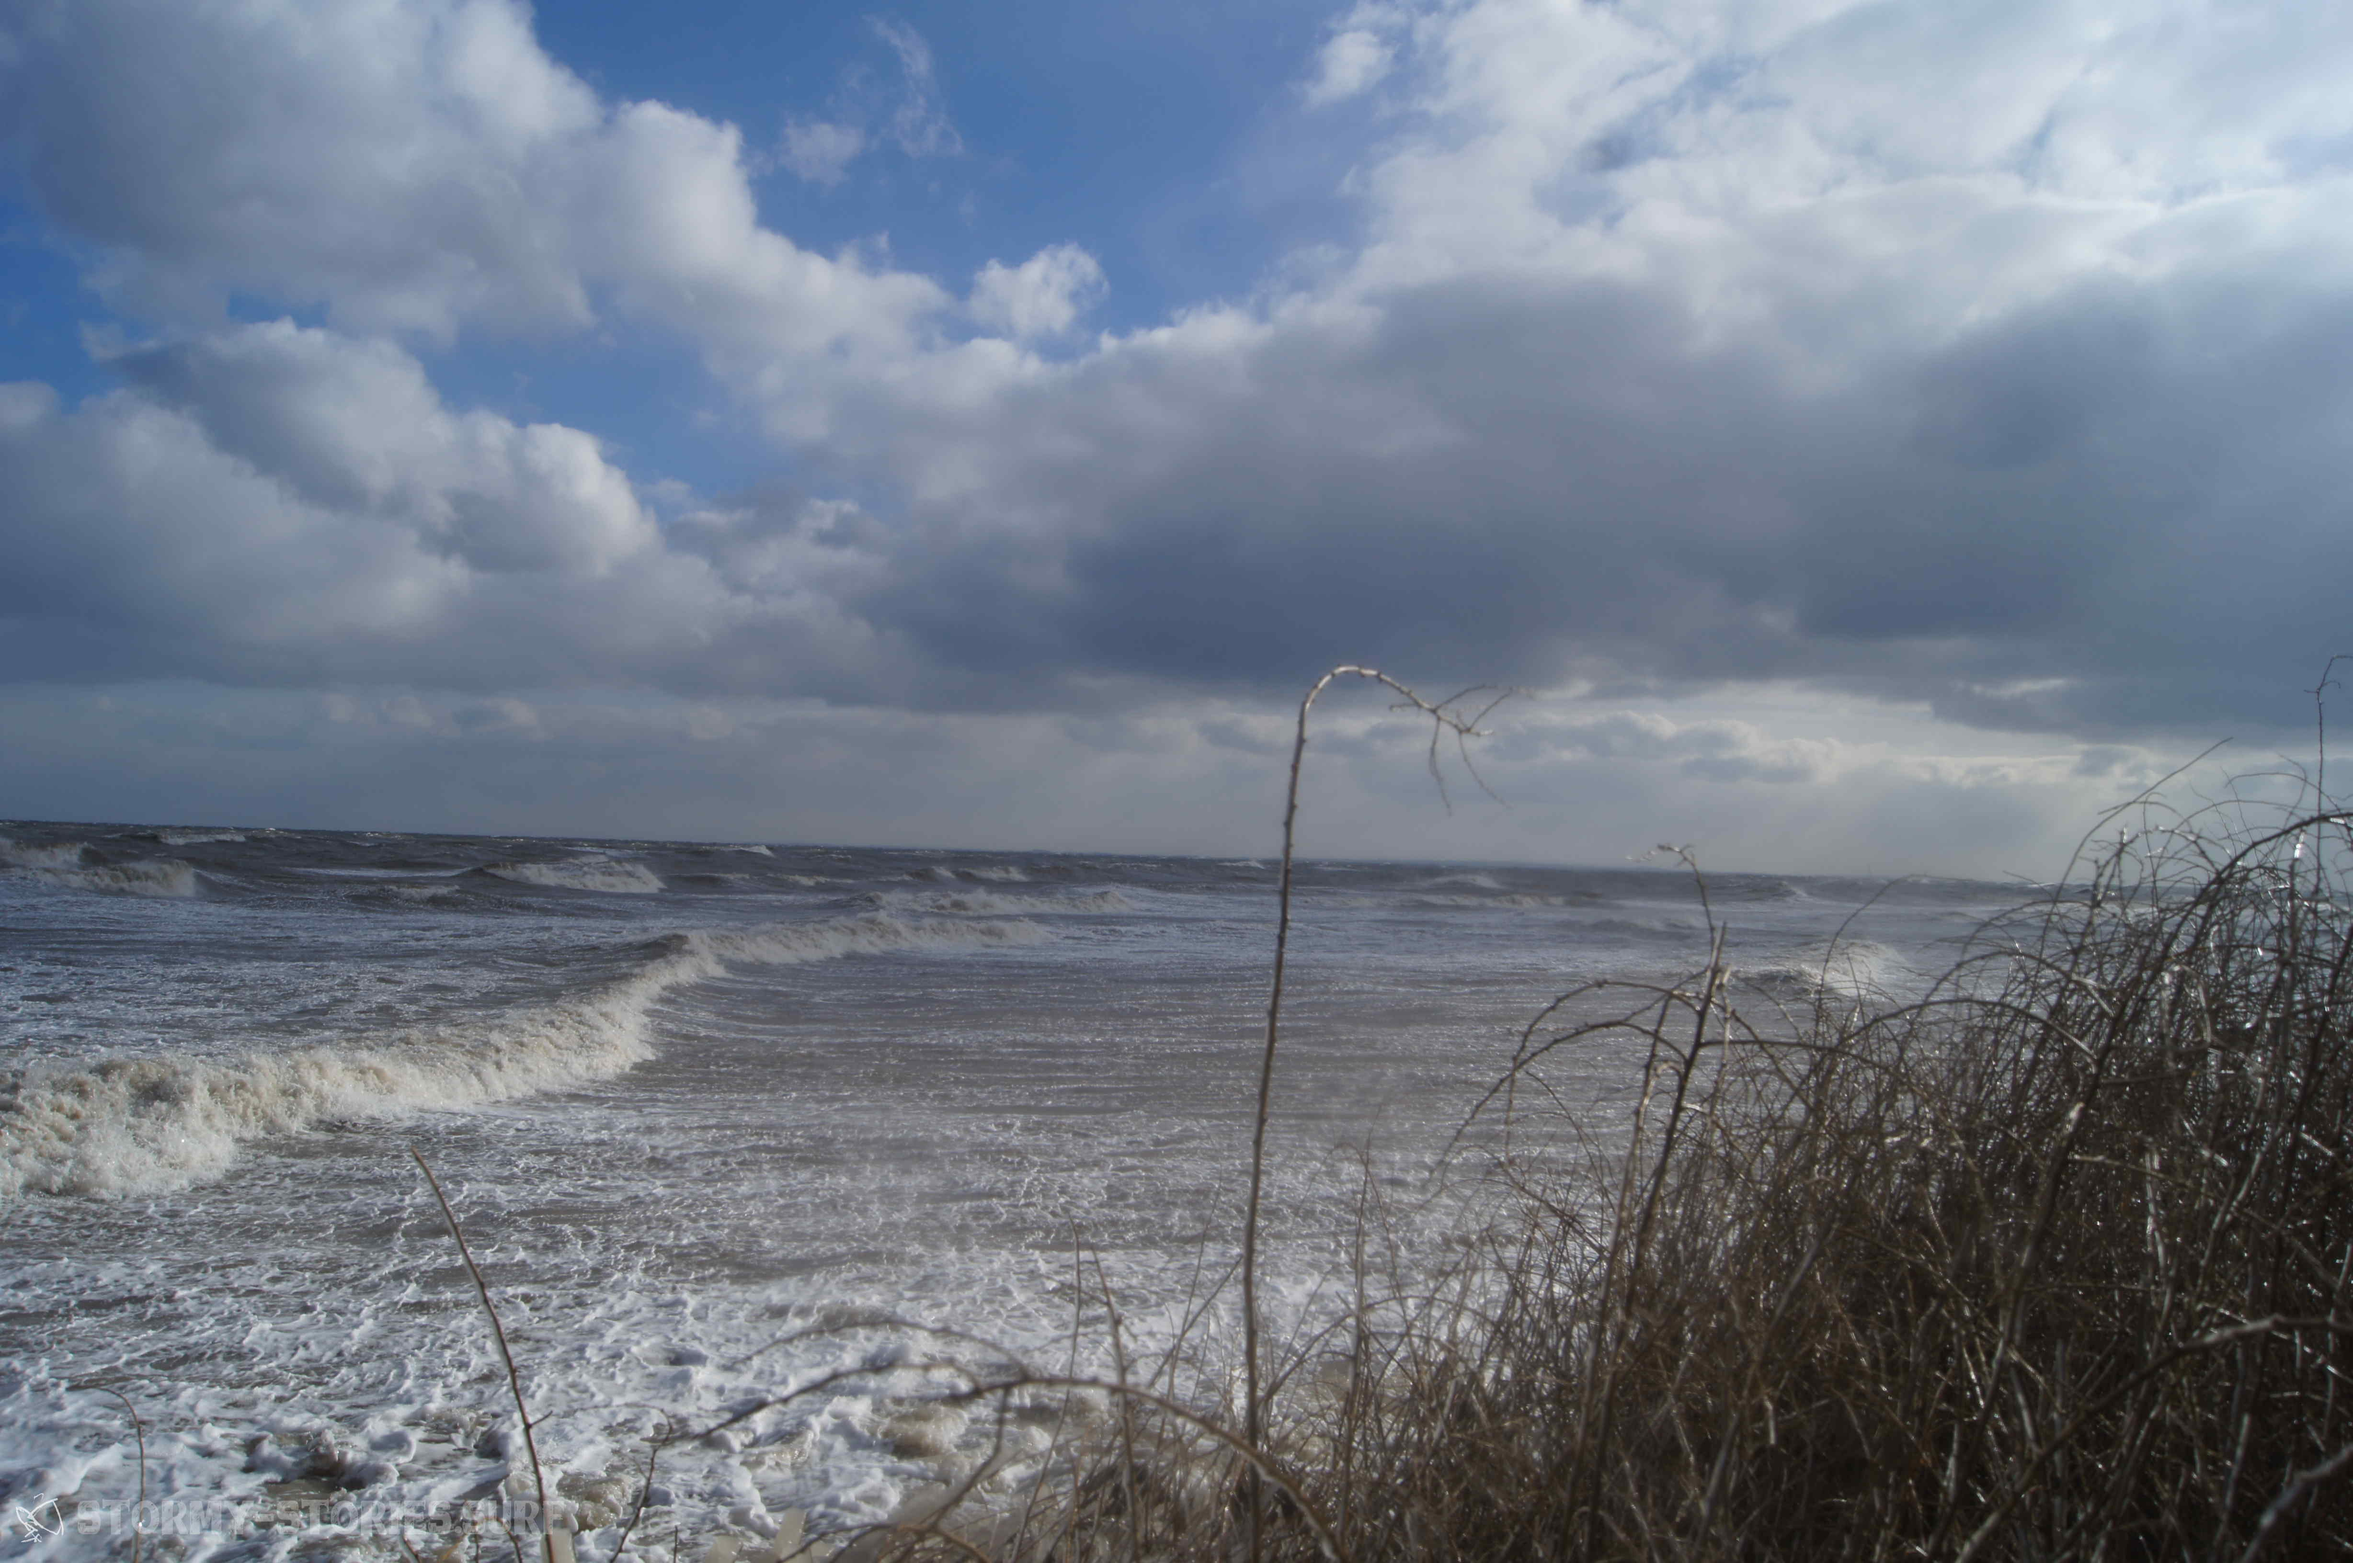
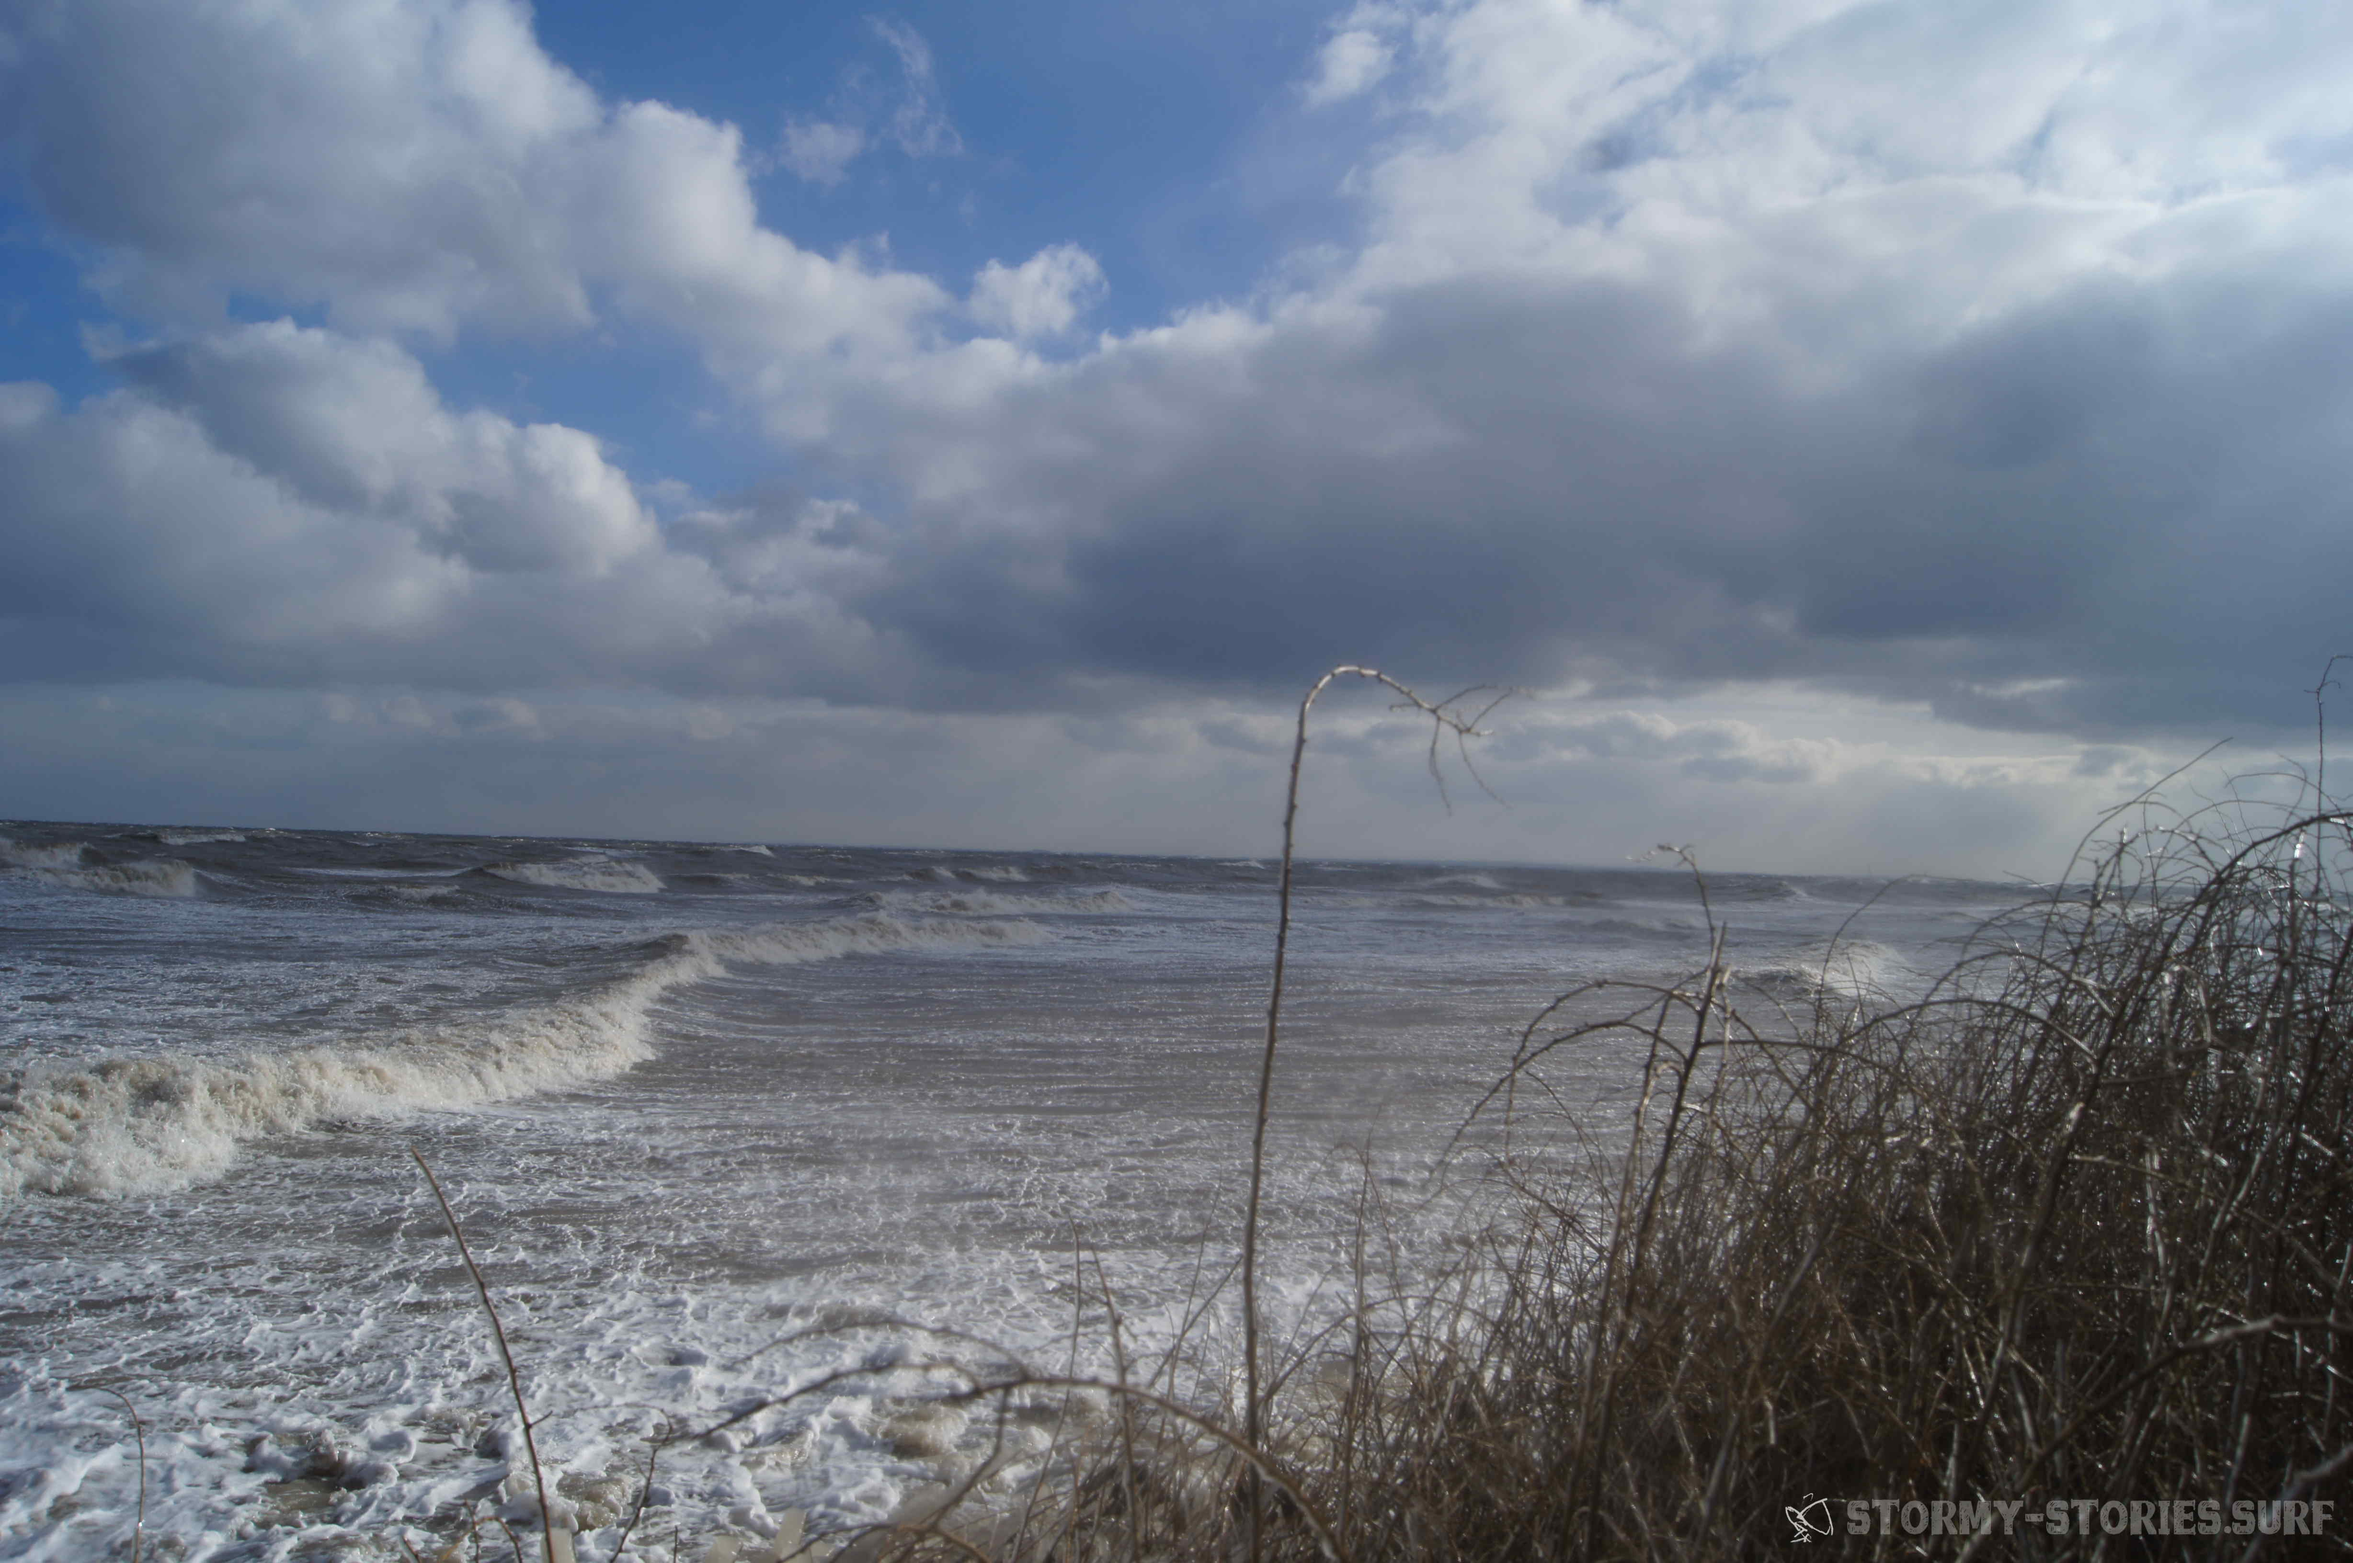
fixed watermarking positions and file sizes

Changed region(s): [[0.7476, 0.9375, 0.9967, 1.0], [0.0311, 0.9375, 0.2492, 1.0]]

diff --git a/markdown/posts/2018/balticSea/03_17_dahmeshoeved/de/content.md b/markdown/posts/2018/balticSea/03_17_dahmeshoeved/de/content.md
@@ -2,7 +2,7 @@
 
 # Dahmeshöved
 
-![link broken](../../../../../../mediaLibrary/posts/2018/balticSea-Ostsee/03-17-dahmeshoeved/windsurf-stormy-stories-surf-travel-blog-balticSea-Ostsee-03-17-dahmeshoeved-WM-35p-02.JPG)
+![link broken](../../../../../../mediaLibrary/posts/2018/balticSea-Ostsee/03-17-dahmeshoeved/windsurf-stormy-stories-surf-travel-blog-balticSea-Ostsee-03-17-dahmeshoeved-WM-25p-02.JPG)
 
 35 Knoten sind 35 Knoten…  
 Da kann man wohl nix dran rütteln..
